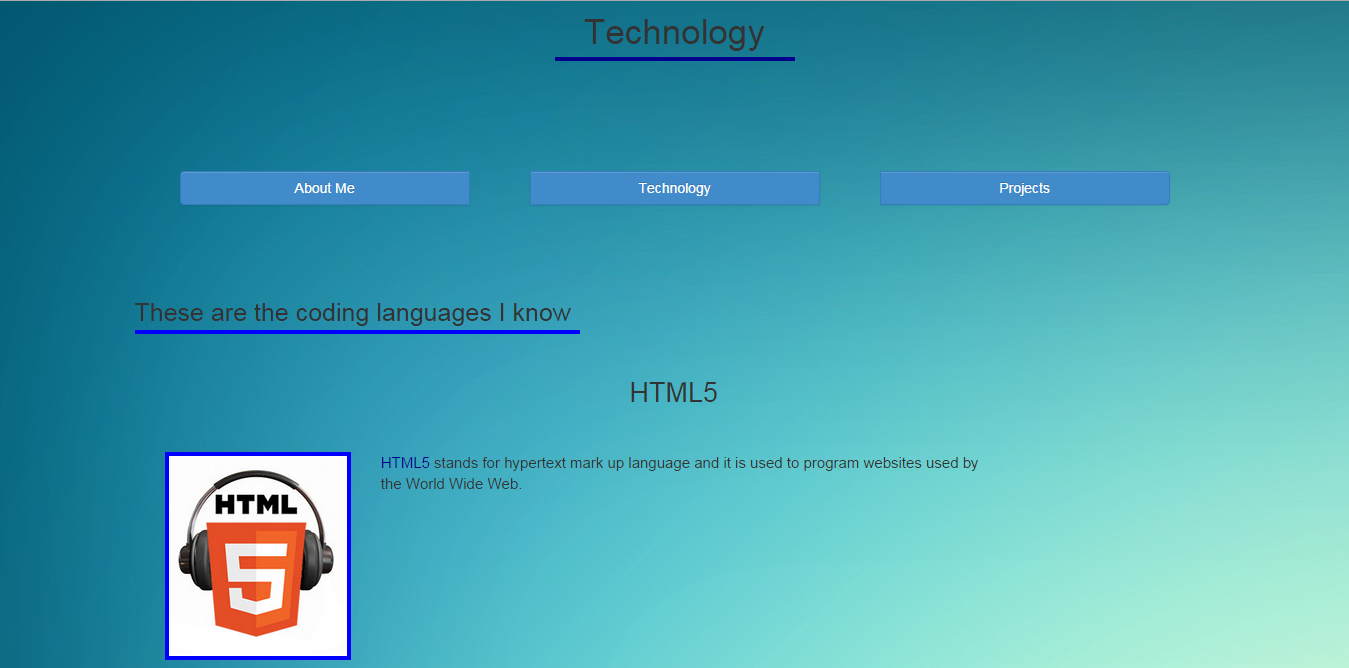
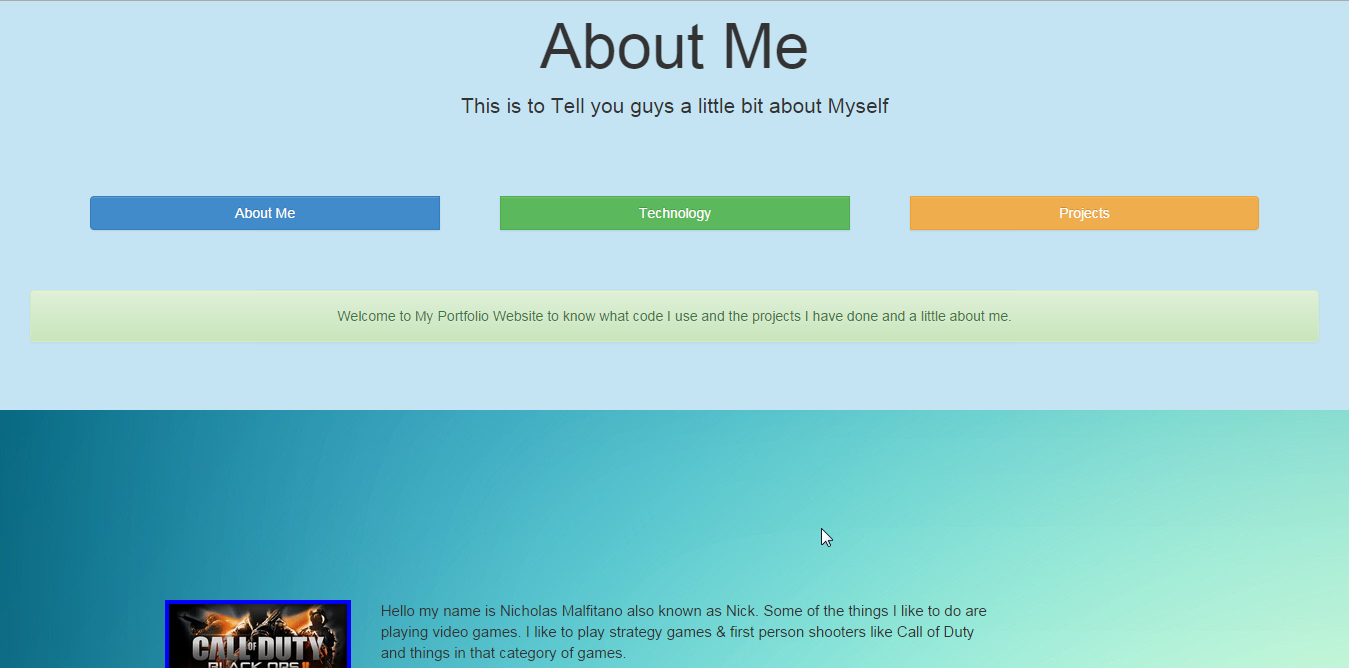
added  moving text  new button colors and notes in between code

diff --git a/public_html/Technology.html b/public_html/Technology.html
@@ -1,5 +1,6 @@
 
 <html>
+    <!--Title of the page-->
     <head>
         <title>Nicks Portfolio - Technology</title>
         <meta charset="UTF-8">
@@ -9,34 +10,39 @@
         <link type="text/css" rel="stylesheet" href="css/coustom-style.css">
     </head>
     <body>
-         <div class="jumbotron">
+        <!--Jumbotron with main text on the top of the page-->
+            <div class="jumbotron">
               <h1>Technology</h1>
               <p>These are the coding languages I know</p>
+        <!--Links between pages-->
               <div class="btn-group btn-group-justified">
             <div class="btn-group">
                 <a href="index.html"type="button" class="btn btn-primary">About Me</a>
             </div>
             <div class="btn-group">
-                <a href="Technology.html"type="button" class="btn btn-primary">Technology</a>
+                <a href="Technology.html"type="button" class="btn btn-success">Technology</a>
             </div>
             <div class="btn-group">
-                <a href="Projects.html" type="button" class="btn btn-primary">Projects</a>
+                <a href="Projects.html" type="button" class="btn btn-warning">Projects</a>
             </div>
             </div>
             </div>
-         <div class="container">
+            <div class="container">
             <div class="row">
                  <div class="col-xs-10">
+        <!--About HTML5 and a link-->
                  <div class="row">
                    <p class="Header3">HTML5</p>
                    <div class="col-xs-3"><img class="img-responsive" src="Pics/HTML5 pic.jpg"></div>
                    <div class="col-xs-9"><a  href="http://en.wikipedia.org/wiki/HTML5">HTML5</a> stands for hypertext mark up language and it is used  to program websites used by the World Wide Web.</div>
                  </div>
+        <!--About bootstrap with a link-->
                  <div class="row">
                    <p class="Header3">BootStrap</p>
                    <div class="col-xs-3"><img class="img-responsive" src="Pics/Bootstrap.jpg"></div>
                    <div class="col-xs-9"><a href="http://en.wikipedia.org/wiki/Bootstrap_(front-end_framework)">Bootstrap</a> is the most popular HTML, CSS, and JS framework for developing responsive, mobile first projects on the web.</div>
                  </div>
+        <!--About CSS With a link-->
                     <div class="row">
                    <p class="Header3">CSS</p>
                    <div class="col-xs-3"><img class="img-responsive" src="Pics/CSS.png"></div>
@@ -46,7 +52,10 @@
                  <div class="col-xs-2"> 
                </div>
             </div>
-        </div>
+         </div>
+        <!--moving  text at the bottom of the website-->
+         <marquee class="movingtext">------------------------------------------------------------------[TECHNOLOGY]--------------------------------------------------------------------------------------------------------------------------------------------------[This Website was Made By: Nick Malfitano]-----------------------------------------------------------------------------------------------------------------------------------------------------[TECHNOLOGY]----------------------------------------------------------------------------------</marquee>
+        <!--Music-->
         <audio controls autoplay>
             <source src="Music/Pegboard Nerds - Disconnected.mp3" type="audio/mpeg">
         </audio>

diff --git a/public_html/Projects.html b/public_html/Projects.html
@@ -1,5 +1,6 @@
 
 <html>
+    <!--Title of the page-->
     <head>
         <title>Nicks Portfolio - Projects</title>
         <meta charset="UTF-8">
@@ -9,18 +10,20 @@
         <link type="text/css" rel="stylesheet" href="css/coustom-style.css">
     </head>
     <body>
+        <!--Jumbotron at the top of the page with text-->
          <div class="jumbotron">
               <h1>Projects</h1>
-              <p>All of my Projects I have completed</p>
+              <p>All of my Projects I have completed or Im Working on</p>
+        <!--Links Between Pages-->
               <div class="btn-group btn-group-justified">
             <div class="btn-group">
                 <a href="index.html"type="button" class="btn btn-primary">About Me</a>
             </div>
             <div class="btn-group">
-                <a href="Technology.html"type="button" class="btn btn-primary">Technology</a>
+                <a href="Technology.html"type="button" class="btn btn-success">Technology</a>
             </div>
             <div class="btn-group">
-                <a href="Projects.html" type="button" class="btn btn-primary">Projects</a>
+                <a href="Projects.html" type="button" class="btn btn-warning">Projects</a>
             </div>
             </div>
             </div>
@@ -28,12 +31,12 @@
             <div class="row"></div>
                  <div class="col-xs-10">
                  <div class="row">
-                   <p></p>
+        <!--Pic  of 1st website and text about it-->
                    <div class="col-xs-3"><img class="img-responsive" src="Pics/pic of website.png"></div>
                    <div class="col-xs-9">This is my First Website I have ever Made and the first time using HTML5 and CSS.</div>
                  </div>
                  <div class="row">
-                   <p></p>
+        <!--pic of 2nd website and text about it-->
                    <div class="col-xs-3"><img class="img-responsive" src="Pics/website2pic.png"></div>
                    <div class="col-xs-9">This is the website you are currently on and is my second website I have ever made using CSS and HTML5 and Bootstrap and more about these programing languages on my <a href="Technology.html">Technologies</a> page.</div>
                  </div>
@@ -41,6 +44,9 @@
                  <div class="col-xs-2">  
                </div>
             </div>
+        <!--Moving text at the bottom of the website-->
+         <marquee class="movingtext">------------------------------------------------------------------[PROJECTS]--------------------------------------------------------------------------------------------------------------------------------------------------[This Website was Made By: Nick Malfitano]-----------------------------------------------------------------------------------------------------------------------------------------------------[PROJECTS]----------------------------------------------------------------------------------</marquee>
+        <!--Music-->
             <audio controls autoplay>
                 <source src="Music/[Dubstep] - Tristam - I Remember [Monstercat Release].mp3" type="audio/mpeg">
         </audio>

diff --git a/public_html/index.html b/public_html/index.html
@@ -1,5 +1,6 @@
 
 <html>
+    <!--Title of page-->
     <head>
         <title>Nicks Portfolio - About Me</title>
         <meta charset="UTF-8">
@@ -9,22 +10,27 @@
         <link type="text/css" rel="stylesheet" href="css/coustom-style.css">
     </head>
     <body>
+        <!-- Jumbotron with main text on top of page-->
          <div class="jumbotron">
               <h1>About Me</h1>
-              <p>This is my website where I can show you my projects and coding languages  </p>
+              <p>This is to Tell you guys a little bit about Myself</p>
+        <!--links between pages-->
               <div class="btn-group btn-group-justified">
             <div class="btn-group">
                 <a href="index.html"type="button" class="btn btn-primary">About Me</a>
             </div>
             <div class="btn-group">
-                <a href="Technology.html"type="button" class="btn btn-primary">Technology</a>
+                <a href="Technology.html"type="button" class="btn btn-success">Technology</a>
             </div>
             <div class="btn-group">
-                <a href="Projects.html" type="button" class="btn btn-primary">Projects</a>
+                <a href="Projects.html" type="button" class="btn btn-warning">Projects</a>
             </div>
             </div>
+        <!--alert-->
+        <div class="alert alert-success" role="alert">Welcome to My Portfolio Website to know what code I use and the projects I have done and a little about me.</div>
             </div>
-         <div class="container">
+        <!--First section where pic of black ops 2 and info text-->
+            <div class="container">
             <div class="row">
                  <div class="col-xs-10">
                    <p></p>
@@ -35,6 +41,7 @@
                I like to play  strategy games & first person shooters 
                like Call of Duty and things in that category of games.</div>
                  </div>
+        <!--Second sectin where pic of motorcycle and more info is-->
                  <div class="row">
                    <p></p>
                    <div class="col-xs-3"><img class="img-responsive" src="Pics/picofme.jpg"></div>
@@ -45,8 +52,11 @@
                  </div>
                  </div>
                  <div class="col-xs-2"></div>
+              </div>
             </div>
-        </div>
+        <!--Moving text at bottom of website-->
+           <marquee class="movingtext">------------------------------------------------------------------[ABOUT ME]--------------------------------------------------------------------------------------------------------------------------------------------------[This Website was Made By: Nick Malfitano]-----------------------------------------------------------------------------------------------------------------------------------------------------[ABOUT ME]----------------------------------------------------------------------------------</marquee>
+        <!--Music-->
         <audio controls autoplay>
             <source src="Music/Best Dubstep Song 2014! (Aero Chord - Mortar) (1).mp3" type="audio/mpeg">
         </audio>

diff --git a/public_html/css/coustom-style.css b/public_html/css/coustom-style.css
@@ -1,61 +1,44 @@
-
+/*spacing and grid*/
 div {
     border-style: hidden;
     border-width: 5px;
     padding: 30px;
 }
 
+/*Background picture*/
 body {
     background-image: url("http://shiningstuff.com/wp-content/uploads/2014/06/blurred_00267404.jpg")
 }
 
-
-.Header {
-    font-size: 35px;
-    text-align: center;
-    border-bottom: 4px solid darkblue;
-    margin-right: 450px;
-    margin-left: 450px;
-}
-
+/*all images*/
 img {
     border: 4px solid blue;
 }
 
+/*headers for bootstrap HTML5 and CSS on technology page*/
 .Header3 {
     font-size: 27px;
     margin-left: 480px; 
 }
 
+/*all navagation/links*/
 a {
     color: darkblue;
 }
 
-.Header2 {
-    font-size: 25px;
-    border-bottom: 4px solid blue;
-    margin-right: 450px;
- 
-}
-
+/*Makes all text bigger*/
 .col-xs-9 {
     font-size: 15px;
 }
 
-.Header4{
-    font-size: 25px;
-    border-bottom: 4px solid blue;
-    margin-right: 520px;
- 
-}
-
-.Header5{
-    font-size: 25px;
-    border-bottom: 4px solid blue;
-    margin-right: 550px;
-    padding-left: 8px;
-}
+/*Jumbotron at top of page*/
 .jumbotron {
     text-align: center;
     background-color: #c4e3f3;
 }
+/*top border on moving text at the bottom of the screen*/
+.movingtext {
+    border-top: solid #285e8e;
+    border-width: 3px;
+}
+
